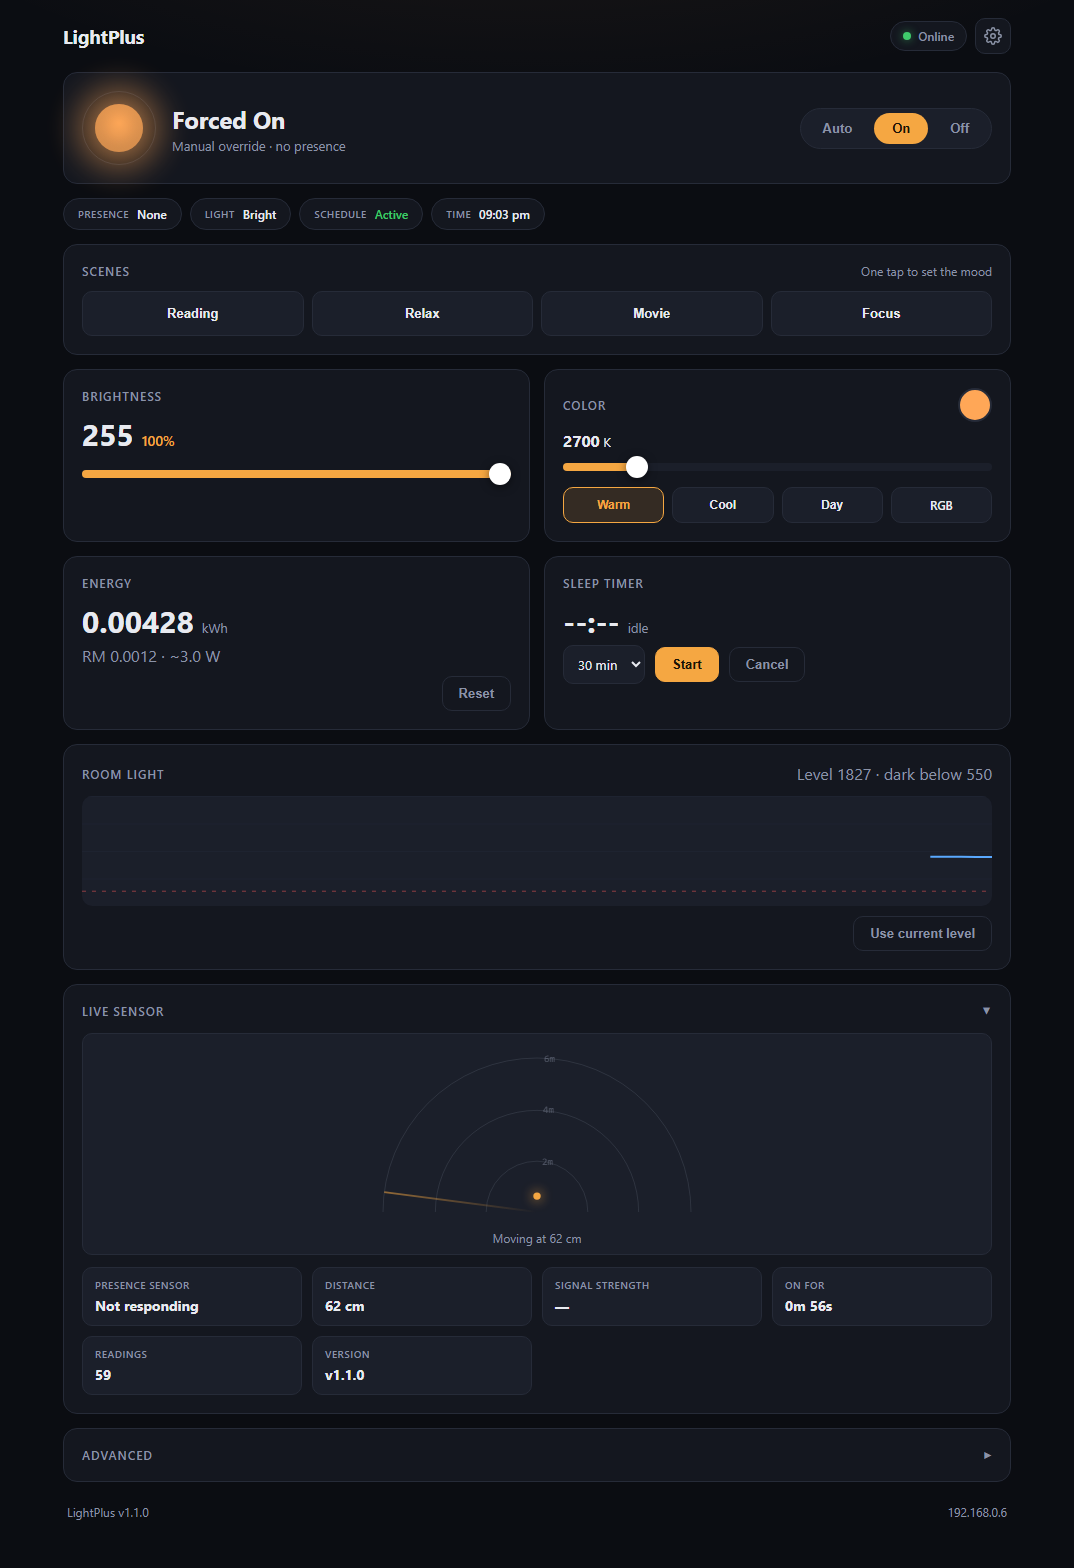
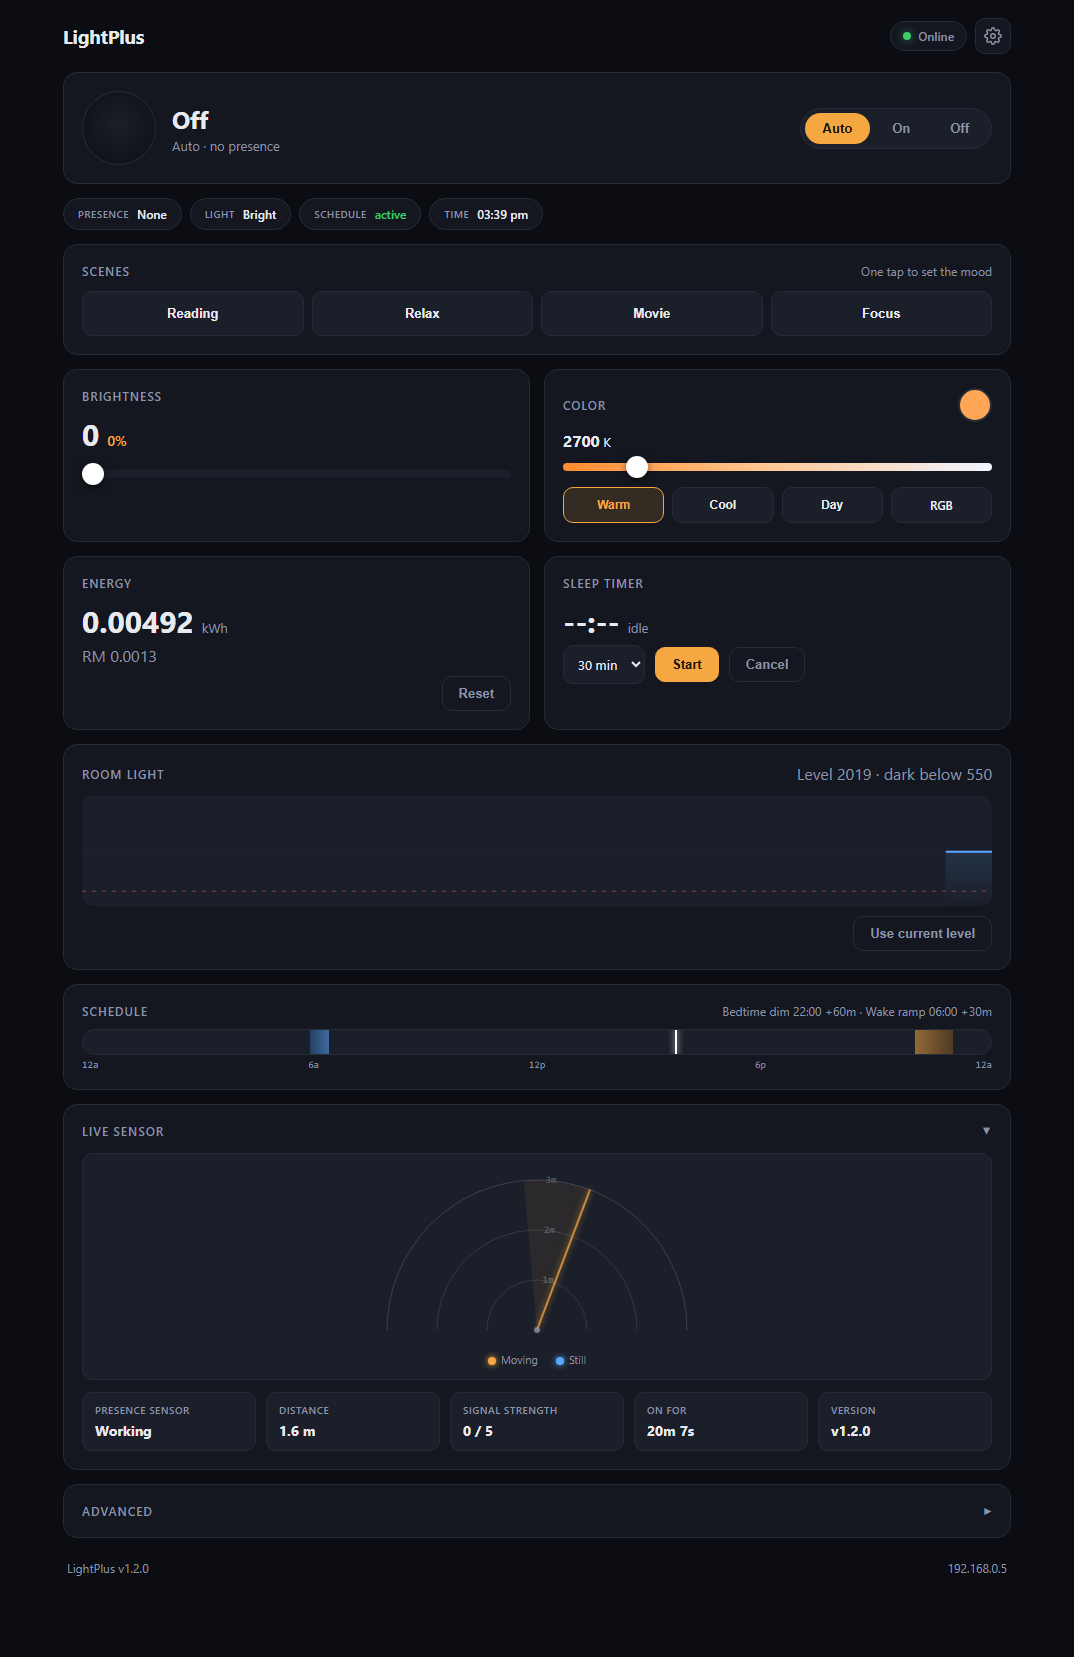
Docs: v1.2 dashboard screenshot (live radar, timeline) and demo powerbank note

diff --git a/docs/HARDWARE.md b/docs/HARDWARE.md
@@ -33,6 +33,11 @@ ring a solid 5 V supply (or power the board from a 2 A source). The firmware
 also auto-restarts the radar if its stream stalls, but it cannot fix an
 under-sized supply.
 
+For demos, a **2 A USB powerbank** is an excellent supply: it avoids brownouts
+and keeps the lamp portable (roughly 4–8 h runtime with the ring lit; the
+ESP32 + radar alone draw ≈ 0.35 A). A battery-powered product is out of scope —
+the radar needs continuous power.
+
 ## Upgrades & cost cutting
 
 Current retail BOM ≈ RM50. Options, biggest savings first:
